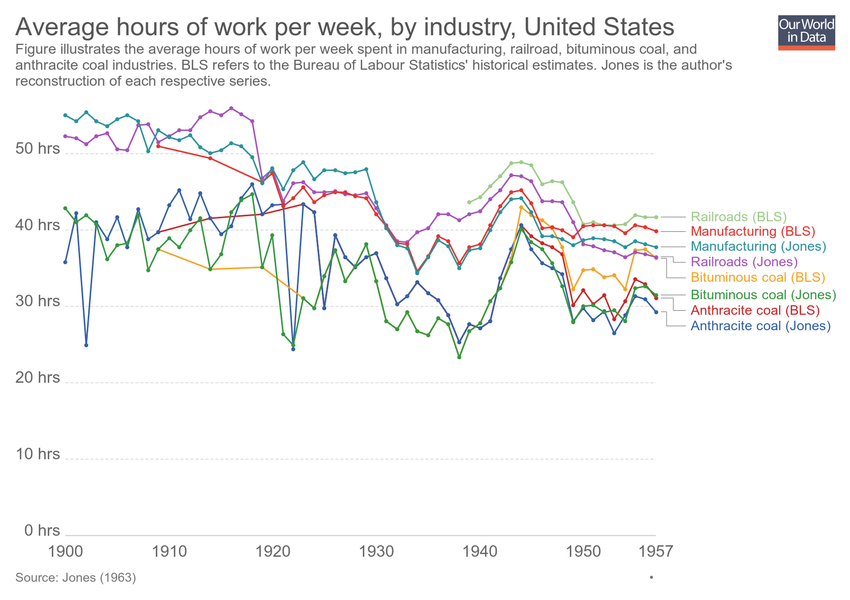
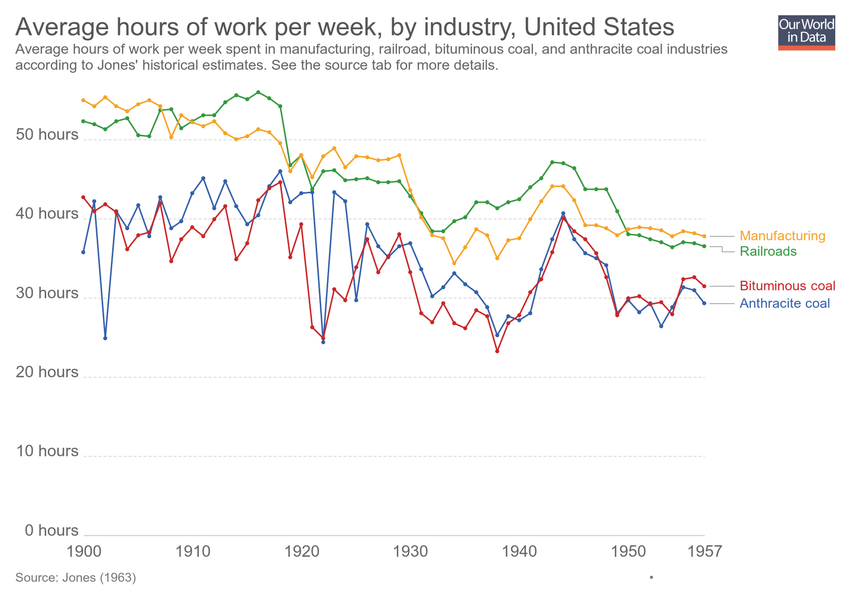
Updating chart average-hours-of-work-per-week-by-industry

diff --git a/grapher/average-hours-of-work-per-week-by-industry.html b/grapher/average-hours-of-work-per-week-by-industry.html
@@ -1,4 +1,4 @@
-<!doctype html><html><head><meta name="viewport" content="width=device-width, initial-scale=1" /><title>Average hours of work per week, by industry - Our World in Data</title><meta name="description" content="Figure illustrates the average hours of work per week spent in manufacturing, railroad, bituminous coal, and anthracite coal industries. BLS refers to the Bureau of Labour Statistics' historical estimates. Jones is the author's reconstruction of each respective series. " /><link rel="canonical" href="https://ourworldindata.org/grapher/average-hours-of-work-per-week-by-industry" /><meta property="fb:app_id" content="1149943818390250" /><meta property="og:url" content="https://ourworldindata.org/grapher/average-hours-of-work-per-week-by-industry" /><meta property="og:title" content="Average hours of work per week, by industry" /><meta property="og:description" content="Figure illustrates the average hours of work per week spent in manufacturing, railroad, bituminous coal, and anthracite coal industries. BLS refers to the Bureau of Labour Statistics' historical estimates. Jones is the author's reconstruction of each respective series. " /><meta property="og:image" content="https://ourworldindata.org/grapher/exports/average-hours-of-work-per-week-by-industry.png?v=1" /><meta property="og:image:width" content="850" /><meta property="og:image:height" content="600" /><meta property="og:site_name" content="Our World in Data" /><meta name="twitter:card" content="summary_large_image" /><meta name="twitter:site" content="@OurWorldInData" /><meta name="twitter:creator" content="@OurWorldInData" /><meta name="twitter:title" content="Average hours of work per week, by industry" /><meta name="twitter:description" content="Figure illustrates the average hours of work per week spent in manufacturing, railroad, bituminous coal, and anthracite coal industries. BLS refers to the Bureau of Labour Statistics' historical estimates. Jones is the author's reconstruction of each respective series. " /><meta name="twitter:image" content="https://ourworldindata.org/grapher/exports/average-hours-of-work-per-week-by-industry.png?v=1" /><style>
+<!doctype html><html><head><meta name="viewport" content="width=device-width, initial-scale=1" /><title>Average hours of work per week, by industry - Our World in Data</title><meta name="description" content="Average hours of work per week spent in manufacturing, railroad, bituminous coal, and anthracite coal industries according to Jones' historical estimates. See the source tab for more details." /><link rel="canonical" href="https://ourworldindata.org/grapher/average-hours-of-work-per-week-by-industry" /><meta property="fb:app_id" content="1149943818390250" /><meta property="og:url" content="https://ourworldindata.org/grapher/average-hours-of-work-per-week-by-industry" /><meta property="og:title" content="Average hours of work per week, by industry" /><meta property="og:description" content="Average hours of work per week spent in manufacturing, railroad, bituminous coal, and anthracite coal industries according to Jones' historical estimates. See the source tab for more details." /><meta property="og:image" content="https://ourworldindata.org/grapher/exports/average-hours-of-work-per-week-by-industry.png?v=5" /><meta property="og:image:width" content="850" /><meta property="og:image:height" content="600" /><meta property="og:site_name" content="Our World in Data" /><meta name="twitter:card" content="summary_large_image" /><meta name="twitter:site" content="@OurWorldInData" /><meta name="twitter:creator" content="@OurWorldInData" /><meta name="twitter:title" content="Average hours of work per week, by industry" /><meta name="twitter:description" content="Average hours of work per week spent in manufacturing, railroad, bituminous coal, and anthracite coal industries according to Jones' historical estimates. See the source tab for more details." /><meta name="twitter:image" content="https://ourworldindata.org/grapher/exports/average-hours-of-work-per-week-by-industry.png?v=5" /><style>
         html, body {
             height: 100%;
             margin: 0;
@@ -20,8 +20,8 @@
         }
     </style><noscript><style>
                     figure { display: none !important; }
-                </style></noscript><link rel="stylesheet" href="https://ourworldindata.org/grapher/assets/commons.bundle.e61261d2881056c44b1d.css" /><link rel="preload" href="/grapher/data/variables/97622+97623+97620+97621+97618+97619+97616+97617.json?v=1" as="fetch" crossorigin /></head><body class="singleChart"><figure data-grapher-src="/grapher/average-hours-of-work-per-week-by-industry"></figure><noscript id="fallback"><img src="/grapher/exports/average-hours-of-work-per-week-by-industry.svg" /><p>Interactive visualization requires JavaScript</p></noscript><script src="https://cdn.polyfill.io/v2/polyfill.min.js?features=es6,fetch"></script><script src="https://ourworldindata.org/grapher/assets/commons.bundle.e61261d2881056c44b1d.js"></script><script src="https://ourworldindata.org/grapher/assets/charts.bundle.e61261d2881056c44b1d.js"></script><script>
-        var jsonConfig = {"map":{"projection":"World","colorSchemeLabels":[],"colorSchemeValues":[],"customNumericColors":[],"customCategoryColors":{},"customCategoryLabels":{},"customHiddenCategories":{}},"tab":"chart","slug":"average-hours-of-work-per-week-by-industry","type":"LineChart","title":"Average hours of work per week, by industry","xAxis":{"scaleType":"linear"},"yAxis":{"min":0,"scaleType":"linear"},"version":1,"subtitle":"Figure illustrates the average hours of work per week spent in manufacturing, railroad, bituminous coal, and anthracite coal industries. BLS refers to the Bureau of Labour Statistics' historical estimates. Jones is the author's reconstruction of each respective series. ","hasMapTab":false,"stackMode":"absolute","dimensions":[{"display":{"name":"Anthracite coal (BLS)","shortUnit":"hrs"},"property":"y","variableId":97622},{"display":{"name":"Anthracite coal (Jones)"},"property":"y","variableId":97623},{"display":{"name":"Bituminous coal (BLS)"},"property":"y","variableId":97620},{"display":{"name":"Bituminous coal (Jones)"},"property":"y","variableId":97621},{"display":{"name":"Railroads (BLS)"},"property":"y","variableId":97618},{"display":{"name":"Railroads (Jones)"},"property":"y","variableId":97619},{"display":{"name":"Manufacturing (BLS)"},"property":"y","variableId":97616},{"display":{"name":"Manufacturing (Jones)"},"property":"y","variableId":97617}],"isAutoSlug":true,"hasChartTab":true,"isPublished":true,"selectedData":[{"index":0,"entityId":13},{"index":1,"entityId":13},{"index":2,"entityId":13},{"index":3,"entityId":13},{"index":4,"entityId":13},{"index":5,"entityId":13},{"index":6,"entityId":13},{"index":7,"entityId":13}],"addCountryMode":"change-country","id":2831};
+                </style></noscript><link rel="stylesheet" href="https://ourworldindata.org/grapher/assets/commons.bundle.e61261d2881056c44b1d.css" /><link rel="preload" href="/grapher/data/variables/97623+97621+97619+97617.json?v=5" as="fetch" crossorigin /></head><body class="singleChart"><figure data-grapher-src="/grapher/average-hours-of-work-per-week-by-industry"></figure><noscript id="fallback"><img src="/grapher/exports/average-hours-of-work-per-week-by-industry.svg" /><p>Interactive visualization requires JavaScript</p></noscript><script src="https://cdn.polyfill.io/v2/polyfill.min.js?features=es6,fetch"></script><script src="https://ourworldindata.org/grapher/assets/commons.bundle.e61261d2881056c44b1d.js"></script><script src="https://ourworldindata.org/grapher/assets/charts.bundle.e61261d2881056c44b1d.js"></script><script>
+        var jsonConfig = {"id":2831,"map":{"projection":"World","colorSchemeLabels":[],"colorSchemeValues":[],"customNumericColors":[],"customCategoryColors":{},"customCategoryLabels":{},"customHiddenCategories":{}},"tab":"chart","slug":"average-hours-of-work-per-week-by-industry","type":"LineChart","title":"Average hours of work per week, by industry","xAxis":{"scaleType":"linear"},"yAxis":{"min":0,"scaleType":"linear"},"version":5,"subtitle":"Average hours of work per week spent in manufacturing, railroad, bituminous coal, and anthracite coal industries according to Jones' historical estimates. See the source tab for more details.","hasMapTab":false,"stackMode":"absolute","dimensions":[{"display":{"name":"Anthracite coal","shortUnit":"hours"},"property":"y","variableId":97623},{"display":{"name":"Bituminous coal"},"property":"y","variableId":97621},{"display":{"name":"Railroads"},"property":"y","variableId":97619},{"display":{"name":"Manufacturing"},"property":"y","variableId":97617}],"hasChartTab":true,"isPublished":true,"selectedData":[{"index":0,"entityId":13},{"index":1,"entityId":13},{"index":2,"entityId":13},{"index":3,"entityId":13},{"index":4,"entityId":13},{"index":5,"entityId":13},{"index":6,"entityId":13},{"index":7,"entityId":13}],"addCountryMode":"change-country"};
         var figure = document.getElementsByTagName("figure")[0];
         try {
             window.App = {};
